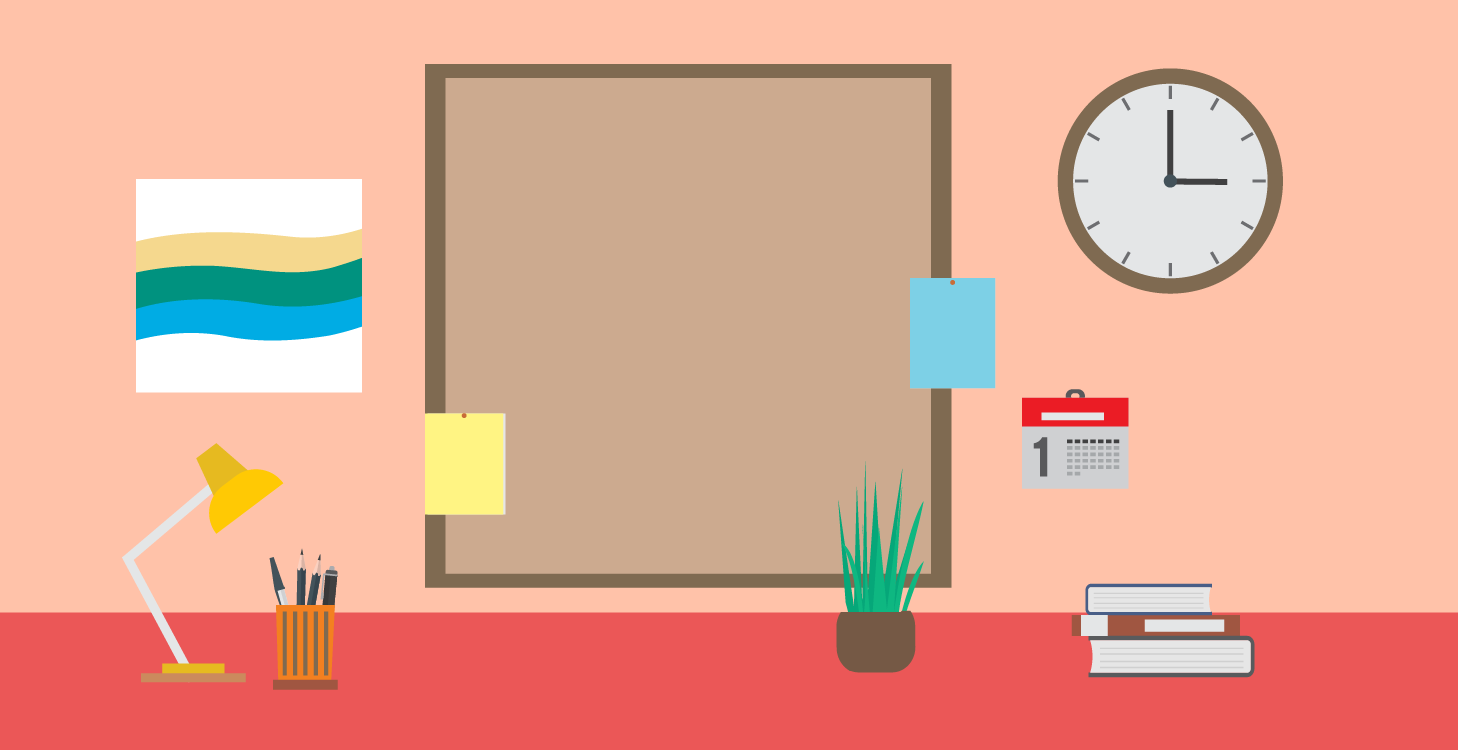
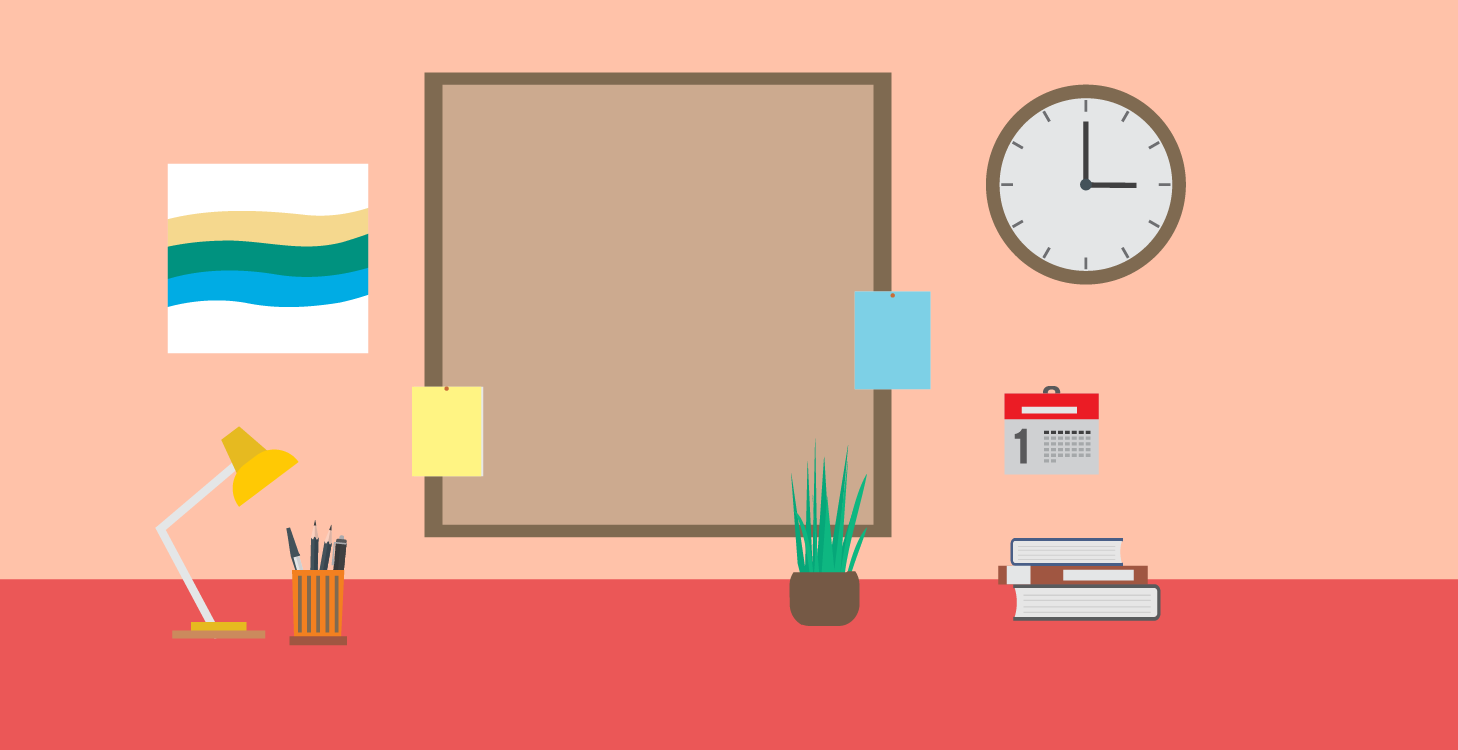
edit-background

Changed region(s): [[0.0, 0.0613, 1.0, 0.92], [0.1235, 0.552, 0.216, 0.7053]]

diff --git a/main.css b/main.css
@@ -424,8 +424,8 @@ table {
 /* QUOTES */
 .background-quotes {
   width: 100%;
-  height: 753px;
-  background-image: url("../webku/assets/img/things-background-02-01.png");
+  height: 760px;
+  background-image: url("../webku/assets/img/things-background-02-01-01.png");
   background-repeat: no-repeat;
   background-size: cover;
   margin: 0;
